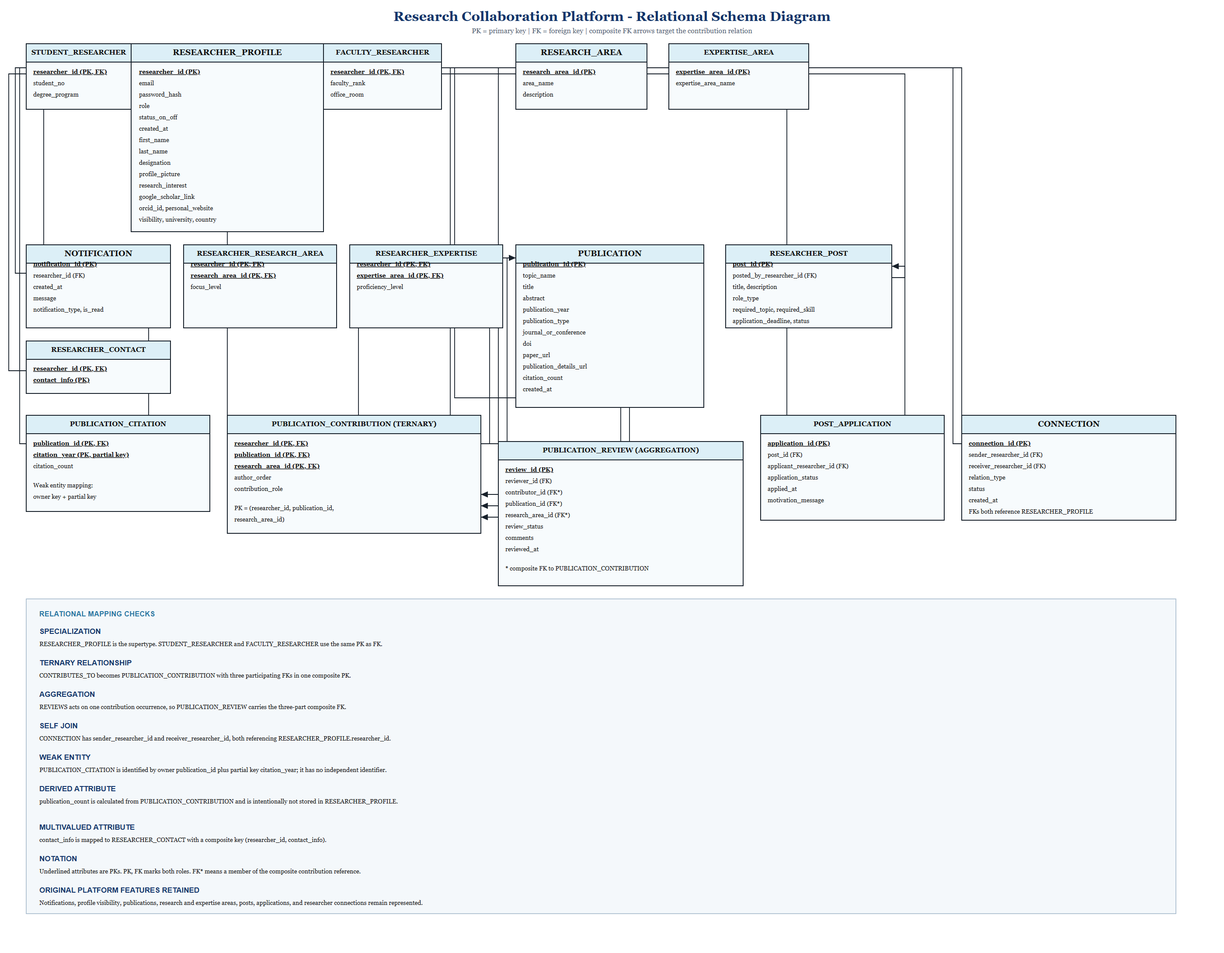
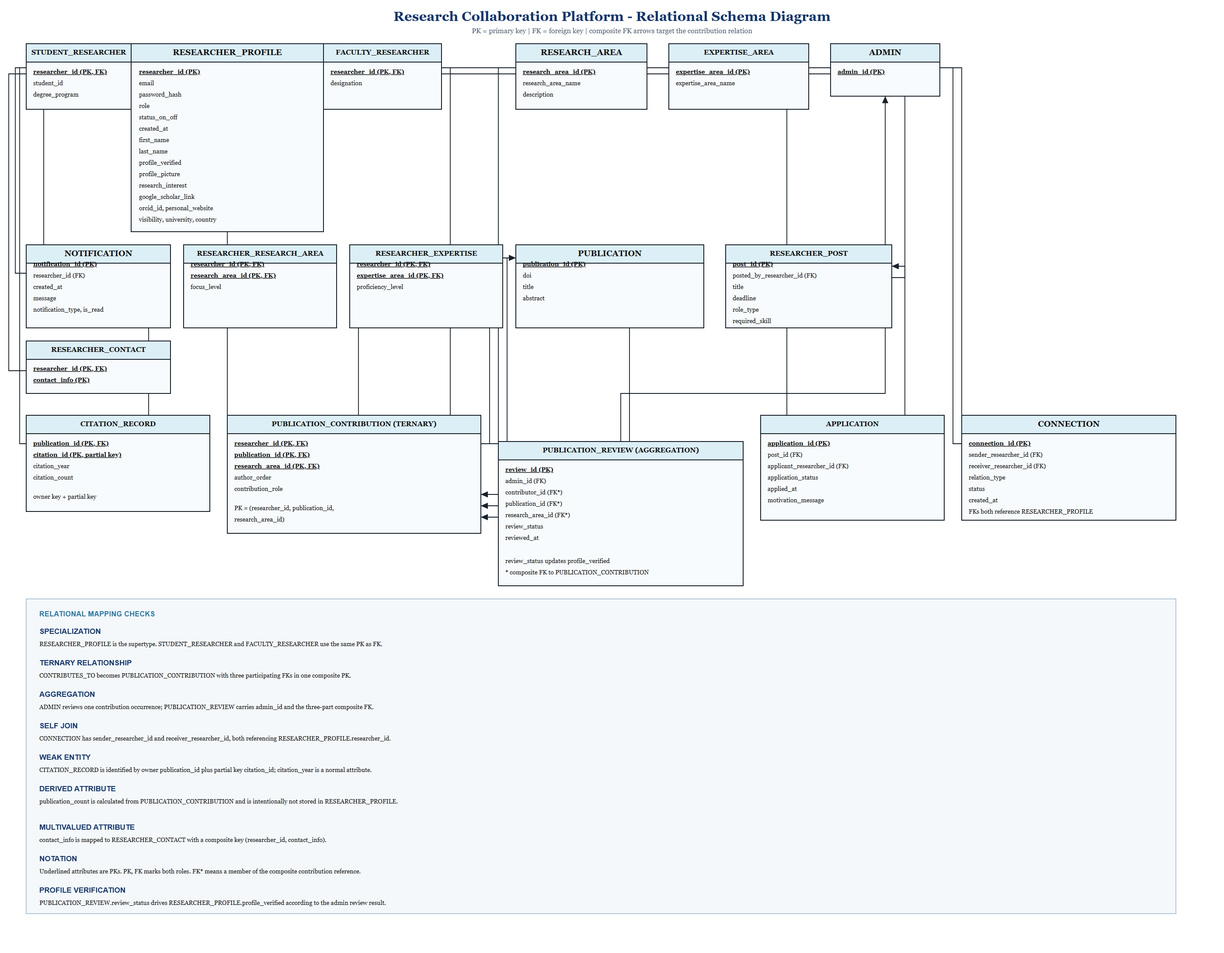
Apply research ER model corrections

diff --git a/public/project-schema-er/index.html b/public/project-schema-er/index.html
@@ -116,9 +116,9 @@
           <ellipse class="attribute" cx="770" cy="910" rx="65" ry="28"/><text class="label small" x="770" y="910">created_at</text>
           <ellipse class="attribute" cx="800" cy="980" rx="86" ry="30"/><ellipse class="attribute" cx="800" cy="980" rx="77" ry="23"/><text class="label small" x="800" y="980">contact_info</text>
           <ellipse class="attribute" cx="1170" cy="585" rx="88" ry="29"/><text class="label small" x="1170" y="585">full_name</text>
-          <ellipse class="attribute" cx="1030" cy="585" rx="72" ry="25"/><text class="label tiny" x="1030" y="585">first_name</text>
-          <ellipse class="attribute" cx="1310" cy="585" rx="70" ry="25"/><text class="label tiny" x="1310" y="585">last_name</text>
-          <ellipse class="attribute" cx="1535" cy="575" rx="100" ry="28"/><text class="label small" x="1535" y="575">designation</text>
+          <ellipse class="attribute" cx="1000" cy="585" rx="72" ry="25"/><text class="label tiny" x="1000" y="585">first_name</text>
+          <ellipse class="attribute" cx="1340" cy="585" rx="70" ry="25"/><text class="label tiny" x="1340" y="585">last_name</text>
+          <ellipse class="attribute" cx="1535" cy="575" rx="105" ry="28"/><text class="label small" x="1535" y="575">profile_verified</text>
           <ellipse class="attribute" cx="1535" cy="635" rx="92" ry="28"/><text class="label small" x="1535" y="635">profile_picture</text>
           <ellipse class="attribute" cx="1535" cy="695" rx="105" ry="28"/><text class="label small" x="1535" y="695">research_interest</text>
           <ellipse class="attribute" cx="1535" cy="755" rx="115" ry="28"/><text class="label small" x="1535" y="755">google_scholar_link</text>
@@ -134,18 +134,23 @@
           <!-- Attribute connectors to profile, kept behind labels -->
           <path class="connector thin" d="M855 585 H1000 M840 650 H1000 M875 715 H1000 M822 780 H1000 M853 845 H1000 M835 910 L1000 830"/>
           <path class="connector thin" d="M886 980 H1000 V850"/>
-          <path class="connector thin" d="M1170 614 V670 M1065 599 L1100 670 M1350 599 L1240 670"/>
+          <path class="connector thin" d="M1170 614 V670 M1072 585 H1082 M1258 585 H1270"/>
           <path class="connector thin" d="M1435 575 L1340 680 M1443 635 L1340 700 M1430 695 L1340 720 M1420 755 L1340 742 M1465 815 L1340 765 M1440 875 L1340 790 M1435 935 L1340 815 M1440 995 L1340 840 M1479 1055 L1340 840 M1440 1115 L1340 840"/>
           <path class="connector thin" d="M1170 850 V910"/>
 
           <!-- Total disjoint specialization -->
           <path class="connector" d="M1160 670 V470 M1180 670 V470"/>
-          <polygon points="1170,470 1105,390 1235,390" fill="#e7e3f5" stroke="#17202a" stroke-width="2.4"/>
+          <polygon points="1170,390 1105,470 1235,470" fill="#e7e3f5" stroke="#17202a" stroke-width="2.4"/>
           <text class="label bold" x="1170" y="430">ISA</text>
           <text class="label tiny bold" x="1170" y="458" style="fill:#2877a4">SPECIALIZATION</text>
           <path class="connector" d="M1170 390 V330 H890 M1170 330 H1470 M890 330 V275 M1470 330 V275"/>
-          <rect class="entity-subtype" x="720" y="180" width="340" height="95"/><text class="label bold small" x="890" y="212">STUDENT_RESEARCHER</text><text class="label tiny" x="890" y="242">student_no, degree_program</text>
-          <rect class="entity-subtype" x="1300" y="180" width="340" height="95"/><text class="label bold small" x="1470" y="212">FACULTY_RESEARCHER</text><text class="label tiny" x="1470" y="242">faculty_rank, office_room</text>
+          <rect class="entity-subtype" x="720" y="180" width="340" height="95"/><text class="label bold small" x="890" y="227">STUDENT_RESEARCHER</text>
+          <ellipse class="attribute" cx="775" cy="105" rx="82" ry="27"/><text class="label small key" x="775" y="105">student_id</text>
+          <ellipse class="attribute" cx="1005" cy="105" rx="105" ry="27"/><text class="label small" x="1005" y="105">degree_program</text>
+          <path class="connector thin" d="M795 132 L840 180 M990 132 L940 180"/>
+          <rect class="entity-subtype" x="1300" y="180" width="340" height="95"/><text class="label bold small" x="1470" y="227">FACULTY_RESEARCHER</text>
+          <ellipse class="attribute" cx="1470" cy="105" rx="100" ry="27"/><text class="label small" x="1470" y="105">designation</text>
+          <path class="connector thin" d="M1470 132 V180"/>
           <text class="label tiny bold" x="1170" y="350" style="fill:#2877a4">total, disjoint (d)</text>
 
           <!-- Notification -->
@@ -170,13 +175,17 @@
           <text class="label bold small" x="2050" y="320">N</text><text class="label bold small" x="1385" y="650">1</text>
 
           <!-- Ternary contribution inside aggregation -->
-          <rect class="entity" x="670" y="1010" width="260" height="90"/><text class="label bold" x="800" y="1045">PUBLICATION</text><text class="label tiny" x="800" y="1073">title, abstract, DOI</text>
+          <rect class="entity" x="670" y="1010" width="260" height="90"/><text class="label bold" x="800" y="1055">PUBLICATION</text>
           <ellipse class="attribute" cx="600" cy="1145" rx="92" ry="27"/><text class="label small key" x="600" y="1145">publication_id</text>
-          <ellipse class="attribute" cx="875" cy="1170" rx="76" ry="27"/><text class="label small" x="875" y="1170">citation_count</text>
-          <path class="connector thin" d="M670 1050 L650 1130 M885 1100 L875 1143"/>
-          <rect class="entity" x="1440" y="1010" width="300" height="90"/><text class="label bold" x="1590" y="1045">RESEARCH_AREA</text><text class="label tiny" x="1590" y="1073">area_name, description</text>
+          <ellipse class="attribute" cx="720" cy="1185" rx="45" ry="27"/><text class="label small" x="720" y="1185">doi</text>
+          <ellipse class="attribute" cx="825" cy="1185" rx="52" ry="27"/><text class="label small" x="825" y="1185">title</text>
+          <ellipse class="attribute" cx="940" cy="1160" rx="70" ry="27"/><text class="label small" x="940" y="1160">abstract</text>
+          <path class="connector thin" d="M670 1050 L650 1130 M720 1158 V1100 M825 1158 V1100 M920 1138 L880 1100"/>
+          <rect class="entity" x="1440" y="1010" width="300" height="90"/><text class="label bold" x="1590" y="1055">RESEARCH_AREA</text>
           <ellipse class="attribute" cx="1450" cy="1165" rx="105" ry="27"/><text class="label small key" x="1450" y="1165">research_area_id</text>
-          <path class="connector thin" d="M1450 1100 V1138"/>
+          <ellipse class="attribute" cx="1620" cy="1165" rx="105" ry="27"/><text class="label small" x="1620" y="1165">research_area_name</text>
+          <ellipse class="attribute" cx="1745" cy="1125" rx="78" ry="27"/><text class="label small" x="1745" y="1125">description</text>
+          <path class="connector thin" d="M1450 1100 V1138 M1620 1138 V1100 M1705 1110 L1680 1090"/>
           <polygon class="relationship" points="1210,1055 1300,995 1390,1055 1300,1115"/><text class="label bold small" x="1300" y="1040">CONTRIBUTES_TO</text><text class="label tiny" x="1300" y="1070">TERNARY</text>
           <path class="connector" d="M930 1055 H1210 M1340 1015 L1270 850 M1390 1055 H1440"/>
           <text class="label bold small" x="1080" y="1035">N</text><text class="label bold small" x="1405" y="1035">N</text><text class="label bold small" x="1270" y="910">N</text>
@@ -186,41 +195,49 @@
           <text class="label tiny bold" x="1300" y="1260" style="fill:#2877a4">One fact needs all 3 entities together</text>
 
           <!-- Aggregation participant: faculty reviewer reviews the contribution occurrence -->
-          <rect class="entity-subtype" x="2100" y="690" width="350" height="95"/><text class="label bold small" x="2275" y="722">FACULTY_RESEARCHER</text><text class="label tiny" x="2275" y="753">role: reviewer</text>
+          <rect class="entity-subtype" x="2100" y="690" width="350" height="95"/><text class="label bold small" x="2275" y="735">ADMIN</text>
+          <ellipse class="attribute" cx="2525" cy="735" rx="78" ry="27"/><text class="label small key" x="2525" y="735">admin_id</text>
+          <path class="connector thin" d="M2448 735 H2450"/>
           <polygon class="relationship" points="1920,805 2000,755 2080,805 2000,855"/><text class="label bold small" x="2000" y="805">REVIEWS</text>
           <path class="connector" d="M1880 805 H1920 M2080 805 H2100"/>
           <text class="label bold small" x="1900" y="780">1</text><text class="label bold small" x="2095" y="780">N</text>
           <ellipse class="attribute" cx="2010" cy="920" rx="77" ry="27"/><text class="label small" x="2010" y="920">review_status</text>
           <ellipse class="attribute" cx="2180" cy="975" rx="58" ry="27"/><text class="label small" x="2180" y="975">reviewed_at</text>
           <path class="connector thin" d="M1980 850 L2000 893 M2040 850 L2160 950"/>
+          <text class="label tiny" x="1885" y="960" style="fill:#2877a4">review_status sets profile_verified</text>
           <text class="label tiny bold" x="2000" y="700" style="fill:#2877a4">AGGREGATE participates in REVIEWS</text>
 
           <!-- Weak citation history entity -->
-          <polygon class="relationship" points="350,1290 465,1230 580,1290 465,1350"/><polygon class="double" points="360,1290 465,1238 570,1290 465,1342"/><text class="label bold tiny" x="465" y="1283">HAS_CITATION</text><text class="label tiny" x="465" y="1308">SNAPSHOT</text>
+          <polygon class="relationship" points="350,1290 465,1230 580,1290 465,1350"/><polygon class="double" points="360,1290 465,1238 570,1290 465,1342"/><text class="label bold tiny" x="465" y="1290">HAS_CITATION</text>
           <rect class="entity" x="140" y="1400" width="350" height="100"/><rect class="double" x="150" y="1410" width="330" height="80"/><text class="label bold small" x="315" y="1432">CITATION_RECORD</text><text class="label tiny" x="315" y="1465">WEAK ENTITY</text>
-          <ellipse class="attribute partial-key" cx="150" cy="1585" rx="78" ry="27"/><text class="label small partial-key" x="150" y="1585">citation_year</text>
-          <ellipse class="attribute" cx="390" cy="1585" rx="78" ry="27"/><text class="label small" x="390" y="1585">citation_count</text>
-          <path class="connector thin" d="M350 1290 H220 V1400 M315 1500 V1558 M390 1500 V1558"/>
+          <ellipse class="attribute partial-key" cx="110" cy="1585" rx="68" ry="27"/><text class="label small partial-key" x="110" y="1585">citation_id</text>
+          <ellipse class="attribute" cx="315" cy="1605" rx="78" ry="27"/><text class="label small" x="315" y="1605">citation_year</text>
+          <ellipse class="attribute" cx="490" cy="1585" rx="78" ry="27"/><text class="label small" x="490" y="1585">citation_count</text>
+          <path class="connector thin" d="M350 1290 H220 V1400 M250 1500 L130 1560 M315 1500 V1578 M390 1500 L470 1560"/>
           <path class="connector" d="M465 1230 V1100 H800"/>
           <text class="label bold small" x="485" y="1175">1</text><text class="label bold small" x="300" y="1370">N</text>
           <text class="label tiny bold" x="320" y="1645" style="fill:#2877a4">IDENTIFYING relationship + partial key</text>
 
           <!-- Research post and application -->
-          <rect class="entity" x="2150" y="1080" width="360" height="100"/><text class="label bold" x="2330" y="1115">RESEARCHER_POST</text><text class="label tiny" x="2330" y="1150">title, role_type, deadline</text>
+          <rect class="entity" x="2150" y="1080" width="360" height="100"/><text class="label bold" x="2330" y="1130">RESEARCHER_POST</text>
           <ellipse class="attribute" cx="2150" cy="1260" rx="70" ry="27"/><text class="label small key" x="2150" y="1260">post_id</text>
           <ellipse class="attribute" cx="2390" cy="1260" rx="76" ry="27"/><text class="label small" x="2390" y="1260">required_skill</text>
-          <path class="connector thin" d="M2150 1180 V1233 M2390 1180 V1233"/>
+          <ellipse class="attribute" cx="2175" cy="1030" rx="55" ry="27"/><text class="label small" x="2175" y="1030">title</text>
+          <ellipse class="attribute" cx="2330" cy="1030" rx="65" ry="27"/><text class="label small" x="2330" y="1030">deadline</text>
+          <ellipse class="attribute" cx="2490" cy="1030" rx="72" ry="27"/><text class="label small" x="2490" y="1030">role_type</text>
+          <path class="connector thin" d="M2150 1180 V1233 M2390 1180 V1233 M2175 1057 L2220 1080 M2330 1057 V1080 M2490 1057 L2440 1080"/>
           <polygon class="relationship" points="1880,1190 1960,1140 2040,1190 1960,1240"/><text class="label bold small" x="1960" y="1190">CREATES</text>
           <path class="connector" d="M1340 840 H1780 V1190 H1880 M2040 1190 H2150"/>
           <text class="label bold small" x="1780" y="1168">1</text><text class="label bold small" x="2080" y="1168">N</text>
-          <polygon class="relationship" points="1960,1370 2050,1315 2140,1370 2050,1425"/><text class="label bold small" x="2050" y="1365">APPLIES_FOR</text><text class="label tiny" x="2050" y="1390">application</text>
-          <path class="connector" d="M2330 1180 V1290 H2140 M1960 1370 V1510 H960 V805 H1000"/>
-          <text class="label bold small" x="2260" y="1268">1</text><text class="label bold small" x="1850" y="1490">N</text>
-          <ellipse class="attribute" cx="2230" cy="1480" rx="86" ry="27"/><text class="label small key" x="2230" y="1480">application_id</text>
-          <ellipse class="attribute" cx="2450" cy="1535" rx="96" ry="27"/><text class="label small" x="2450" y="1535">application_status</text>
-          <ellipse class="attribute" cx="2220" cy="1590" rx="68" ry="27"/><text class="label small" x="2220" y="1590">applied_at</text>
-          <ellipse class="attribute" cx="2450" cy="1645" rx="110" ry="27"/><text class="label small" x="2450" y="1645">motivation_message</text>
-          <path class="connector thin" d="M2140 1425 L2215 1458 M2140 1400 L2390 1510 M2140 1390 L2180 1565 M2140 1380 L2360 1620"/>
+          <polygon class="relationship" points="1910,1370 2000,1315 2090,1370 2000,1425"/><text class="label bold small" x="2000" y="1370">APPLIES_FOR</text>
+          <rect class="entity" x="2220" y="1340" width="320" height="95"/><text class="label bold" x="2380" y="1388">APPLICATION</text>
+          <path class="connector" d="2090 1370 H2220 M1910 1370 H960 V805 H1000"/>
+          <text class="label bold small" x="2135" y="1348">1</text><text class="label bold small" x="1885" y="1348">N</text>
+          <ellipse class="attribute" cx="2225" cy="1500" rx="86" ry="27"/><text class="label small key" x="2225" y="1500">application_id</text>
+          <ellipse class="attribute" cx="2450" cy="1515" rx="96" ry="27"/><text class="label small" x="2450" y="1515">application_status</text>
+          <ellipse class="attribute" cx="2225" cy="1600" rx="68" ry="27"/><text class="label small" x="2225" y="1600">applied_at</text>
+          <ellipse class="attribute" cx="2450" cy="1625" rx="110" ry="27"/><text class="label small" x="2450" y="1625">motivation_message</text>
+          <path class="connector thin" d="M2260 1435 L2225 1473 M2420 1435 L2450 1488 M2300 1435 L2225 1573 M2480 1435 L2450 1598"/>
 
           <!-- Recursive self join: one researcher appears in two roles -->
           <polygon class="relationship" points="1120,1530 1225,1465 1330,1530 1225,1595"/><text class="label bold small" x="1225" y="1515">CONNECTS</text><text class="label tiny" x="1225" y="1545">SELF JOIN</text>
@@ -270,7 +287,7 @@
             <path d="M80 1015 H45 V155 H300" data-ref="RESEARCHER_RESEARCH_AREA.researcher_id -> RESEARCHER_PROFILE.researcher_id"/>
             <path d="M560 1015 H520 V155 H300" data-ref="RESEARCHER_EXPERTISE.researcher_id -> RESEARCHER_PROFILE.researcher_id"/>
             <path d="M1080 1015 H1030 V155 H300" data-ref="RESEARCHER_POST.posted_by_researcher_id -> RESEARCHER_PROFILE.researcher_id"/>
-            <path d="M1880 1015 H1800 V155 H300" data-ref="POST_APPLICATION.applicant_researcher_id -> RESEARCHER_PROFILE.researcher_id"/>
+            <path d="M1880 1015 H1800 V155 H300" data-ref="APPLICATION.applicant_researcher_id -> RESEARCHER_PROFILE.researcher_id"/>
             <!-- areas and notification -->
             <path d="M300 1015 H340 V590 H390" data-ref="RESEARCHER_RESEARCH_AREA.research_area_id -> RESEARCH_AREA.research_area_id"/>
             <path d="M780 1015 H820 V590 H870" data-ref="RESEARCHER_EXPERTISE.expertise_area_id -> EXPERTISE_AREA.expertise_area_id"/>
@@ -279,15 +296,15 @@
             <path d="M1080 1015 H1120 V590 H1180" data-ref="PUBLICATION_CONTRIBUTION.publication_id -> PUBLICATION.publication_id"/>
             <path d="M1080 1015 H1140 V155 H300" data-ref="PUBLICATION_CONTRIBUTION.researcher_id -> RESEARCHER_PROFILE.researcher_id"/>
             <path d="M1080 1015 H1160 V590 H870" data-ref="PUBLICATION_CONTRIBUTION.research_area_id -> RESEARCH_AREA.research_area_id"/>
-            <path d="M1480 1015 H1440 V590 H1180" data-ref="PUBLICATION_CITATION.publication_id -> PUBLICATION.publication_id"/>
+            <path d="M1480 1015 H1440 V590 H1180" data-ref="CITATION_RECORD.publication_id -> PUBLICATION.publication_id"/>
             <!-- aggregation review -->
-            <path d="M1420 1010 V910 H1040 V155 H740" data-ref="PUBLICATION_REVIEW.reviewer_id -> RESEARCHER_PROFILE.researcher_id"/>
+            <path d="M1420 1010 V900 H2025 V220" data-ref="PUBLICATION_REVIEW.admin_id -> ADMIN.admin_id"/>
             <path d="M1140 1131 H1100" data-ref="PUBLICATION_REVIEW.contributor_id -> PUBLICATION_CONTRIBUTION.researcher_id"/>
             <path d="M1140 1157 H1100" data-ref="PUBLICATION_REVIEW.publication_id -> PUBLICATION_CONTRIBUTION.publication_id"/>
             <path d="M1140 1183 H1100" data-ref="PUBLICATION_REVIEW.research_area_id -> PUBLICATION_CONTRIBUTION.research_area_id"/>
             <!-- posts and applications -->
             <path d="M2040 635 H2070 V169 H740" data-ref="RESEARCHER_POST.posted_by_researcher_id -> RESEARCHER_PROFILE.researcher_id"/>
-            <path d="M1880 1045 H2070 V609 H2040" data-ref="POST_APPLICATION.post_id -> RESEARCHER_POST.post_id"/>
+            <path d="M1880 1045 H2070 V609 H2040" data-ref="APPLICATION.post_id -> RESEARCHER_POST.post_id"/>
             <!-- recursive self join -->
             <path d="M2240 1015 H2200 V155 H300" data-ref="CONNECTION.sender_researcher_id -> RESEARCHER_PROFILE.researcher_id"/>
             <path d="M2240 1015 H2180 V155 H300" data-ref="CONNECTION.receiver_researcher_id -> RESEARCHER_PROFILE.researcher_id"/>
@@ -298,19 +315,22 @@
             <rect class="table" x="300" y="100" width="440" height="430"/><rect class="table-head" x="300" y="100" width="440" height="42"/>
             <text class="label bold" x="520" y="121">RESEARCHER_PROFILE</text>
             <text class="schema-text schema-key" x="318" y="169">researcher_id (PK)</text>
-            <text class="schema-text" x="318" y="195">email</text><text class="schema-text" x="318" y="221">password_hash</text><text class="schema-text" x="318" y="247">role</text><text class="schema-text" x="318" y="273">status_on_off</text><text class="schema-text" x="318" y="299">created_at</text><text class="schema-text" x="318" y="325">first_name</text><text class="schema-text" x="318" y="351">last_name</text><text class="schema-text" x="318" y="377">designation</text><text class="schema-text" x="318" y="403">profile_picture</text><text class="schema-text" x="318" y="429">research_interest</text><text class="schema-text" x="318" y="455">google_scholar_link</text><text class="schema-text" x="318" y="481">orcid_id, personal_website</text><text class="schema-text" x="318" y="507">visibility, university, country</text>
+            <text class="schema-text" x="318" y="195">email</text><text class="schema-text" x="318" y="221">password_hash</text><text class="schema-text" x="318" y="247">role</text><text class="schema-text" x="318" y="273">status_on_off</text><text class="schema-text" x="318" y="299">created_at</text><text class="schema-text" x="318" y="325">first_name</text><text class="schema-text" x="318" y="351">last_name</text><text class="schema-text" x="318" y="377">profile_verified</text><text class="schema-text" x="318" y="403">profile_picture</text><text class="schema-text" x="318" y="429">research_interest</text><text class="schema-text" x="318" y="455">google_scholar_link</text><text class="schema-text" x="318" y="481">orcid_id, personal_website</text><text class="schema-text" x="318" y="507">visibility, university, country</text>
           </g>
           <g>
-            <rect class="table" x="60" y="100" width="240" height="150"/><rect class="table-head" x="60" y="100" width="240" height="42"/><text class="label bold small" x="180" y="121">STUDENT_RESEARCHER</text><text class="schema-text schema-key" x="76" y="169">researcher_id (PK, FK)</text><text class="schema-text" x="76" y="195">student_no</text><text class="schema-text" x="76" y="221">degree_program</text>
+            <rect class="table" x="60" y="100" width="240" height="150"/><rect class="table-head" x="60" y="100" width="240" height="42"/><text class="label bold small" x="180" y="121">STUDENT_RESEARCHER</text><text class="schema-text schema-key" x="76" y="169">researcher_id (PK, FK)</text><text class="schema-text" x="76" y="195">student_id</text><text class="schema-text" x="76" y="221">degree_program</text>
           </g>
           <g>
-            <rect class="table" x="740" y="100" width="270" height="150"/><rect class="table-head" x="740" y="100" width="270" height="42"/><text class="label bold small" x="875" y="121">FACULTY_RESEARCHER</text><text class="schema-text schema-key" x="756" y="169">researcher_id (PK, FK)</text><text class="schema-text" x="756" y="195">faculty_rank</text><text class="schema-text" x="756" y="221">office_room</text>
+            <rect class="table" x="740" y="100" width="270" height="150"/><rect class="table-head" x="740" y="100" width="270" height="42"/><text class="label bold small" x="875" y="121">FACULTY_RESEARCHER</text><text class="schema-text schema-key" x="756" y="169">researcher_id (PK, FK)</text><text class="schema-text" x="756" y="195">designation</text>
           </g>
           <g>
-            <rect class="table" x="1180" y="100" width="300" height="150"/><rect class="table-head" x="1180" y="100" width="300" height="42"/><text class="label bold" x="1330" y="121">RESEARCH_AREA</text><text class="schema-text schema-key" x="1196" y="169">research_area_id (PK)</text><text class="schema-text" x="1196" y="195">area_name</text><text class="schema-text" x="1196" y="221">description</text>
+            <rect class="table" x="1180" y="100" width="300" height="150"/><rect class="table-head" x="1180" y="100" width="300" height="42"/><text class="label bold" x="1330" y="121">RESEARCH_AREA</text><text class="schema-text schema-key" x="1196" y="169">research_area_id (PK)</text><text class="schema-text" x="1196" y="195">research_area_name</text><text class="schema-text" x="1196" y="221">description</text>
           </g>
           <g>
             <rect class="table" x="1530" y="100" width="320" height="150"/><rect class="table-head" x="1530" y="100" width="320" height="42"/><text class="label bold small" x="1690" y="121">EXPERTISE_AREA</text><text class="schema-text schema-key" x="1546" y="169">expertise_area_id (PK)</text><text class="schema-text" x="1546" y="195">expertise_area_name</text>
+          </g>
+          <g>
+            <rect class="table" x="1900" y="100" width="250" height="120"/><rect class="table-head" x="1900" y="100" width="250" height="42"/><text class="label bold" x="2025" y="121">ADMIN</text><text class="schema-text schema-key" x="1916" y="169">admin_id (PK)</text>
           </g>
 
           <g>
@@ -326,23 +346,23 @@
             <rect class="table" x="800" y="560" width="350" height="190"/><rect class="table-head" x="800" y="560" width="350" height="42"/><text class="label bold small" x="975" y="581">RESEARCHER_EXPERTISE</text><text class="schema-text schema-key" x="816" y="609">researcher_id (PK, FK)</text><text class="schema-text schema-key" x="816" y="635">expertise_area_id (PK, FK)</text><text class="schema-text" x="816" y="661">proficiency_level</text>
           </g>
           <g>
-            <rect class="table" x="1180" y="560" width="430" height="372"/><rect class="table-head" x="1180" y="560" width="430" height="42"/><text class="label bold" x="1395" y="581">PUBLICATION</text><text class="schema-text schema-key" x="1196" y="609">publication_id (PK)</text><text class="schema-text" x="1196" y="635">topic_name</text><text class="schema-text" x="1196" y="661">title</text><text class="schema-text" x="1196" y="687">abstract</text><text class="schema-text" x="1196" y="713">publication_year</text><text class="schema-text" x="1196" y="739">publication_type</text><text class="schema-text" x="1196" y="765">journal_or_conference</text><text class="schema-text" x="1196" y="791">doi</text><text class="schema-text" x="1196" y="817">paper_url</text><text class="schema-text" x="1196" y="843">publication_details_url</text><text class="schema-text" x="1196" y="869">citation_count</text><text class="schema-text" x="1196" y="895">created_at</text>
+            <rect class="table" x="1180" y="560" width="430" height="190"/><rect class="table-head" x="1180" y="560" width="430" height="42"/><text class="label bold" x="1395" y="581">PUBLICATION</text><text class="schema-text schema-key" x="1196" y="609">publication_id (PK)</text><text class="schema-text" x="1196" y="635">doi</text><text class="schema-text" x="1196" y="661">title</text><text class="schema-text" x="1196" y="687">abstract</text>
           </g>
           <g>
-            <rect class="table" x="1660" y="560" width="380" height="190"/><rect class="table-head" x="1660" y="560" width="380" height="42"/><text class="label bold small" x="1850" y="581">RESEARCHER_POST</text><text class="schema-text schema-key" x="1676" y="609">post_id (PK)</text><text class="schema-text" x="1676" y="635">posted_by_researcher_id (FK)</text><text class="schema-text" x="1676" y="661">title, description</text><text class="schema-text" x="1676" y="687">role_type</text><text class="schema-text" x="1676" y="713">required_topic, required_skill</text><text class="schema-text" x="1676" y="739">application_deadline, status</text>
+            <rect class="table" x="1660" y="560" width="380" height="190"/><rect class="table-head" x="1660" y="560" width="380" height="42"/><text class="label bold small" x="1850" y="581">RESEARCHER_POST</text><text class="schema-text schema-key" x="1676" y="609">post_id (PK)</text><text class="schema-text" x="1676" y="635">posted_by_researcher_id (FK)</text><text class="schema-text" x="1676" y="661">title</text><text class="schema-text" x="1676" y="687">deadline</text><text class="schema-text" x="1676" y="713">role_type</text><text class="schema-text" x="1676" y="739">required_skill</text>
           </g>
 
           <g>
-            <rect class="table" x="60" y="950" width="420" height="220"/><rect class="table-head" x="60" y="950" width="420" height="42"/><text class="label bold small" x="270" y="971">PUBLICATION_CITATION</text><text class="schema-text schema-key" x="76" y="1019">publication_id (PK, FK)</text><text class="schema-text schema-key" x="76" y="1045">citation_year (PK, partial key)</text><text class="schema-text" x="76" y="1071">citation_count</text><text class="schema-text" x="76" y="1115">Weak entity mapping:</text><text class="schema-text" x="76" y="1141">owner key + partial key</text>
+            <rect class="table" x="60" y="950" width="420" height="220"/><rect class="table-head" x="60" y="950" width="420" height="42"/><text class="label bold small" x="270" y="971">CITATION_RECORD</text><text class="schema-text schema-key" x="76" y="1019">publication_id (PK, FK)</text><text class="schema-text schema-key" x="76" y="1045">citation_id (PK, partial key)</text><text class="schema-text" x="76" y="1071">citation_year</text><text class="schema-text" x="76" y="1097">citation_count</text><text class="schema-text" x="76" y="1141">owner key + partial key</text>
           </g>
           <g>
             <rect class="table" x="520" y="950" width="580" height="270"/><rect class="table-head" x="520" y="950" width="580" height="42"/><text class="label bold small" x="810" y="971">PUBLICATION_CONTRIBUTION (TERNARY)</text><text class="schema-text schema-key" x="536" y="1019">researcher_id (PK, FK)</text><text class="schema-text schema-key" x="536" y="1045">publication_id (PK, FK)</text><text class="schema-text schema-key" x="536" y="1071">research_area_id (PK, FK)</text><text class="schema-text" x="536" y="1097">author_order</text><text class="schema-text" x="536" y="1123">contribution_role</text><text class="schema-text" x="536" y="1167">PK = (researcher_id, publication_id,</text><text class="schema-text" x="536" y="1193">research_area_id)</text>
           </g>
           <g>
-            <rect class="table" x="1140" y="1010" width="560" height="330"/><rect class="table-head" x="1140" y="1010" width="560" height="42"/><text class="label bold small" x="1420" y="1031">PUBLICATION_REVIEW (AGGREGATION)</text><text class="schema-text schema-key" x="1156" y="1079">review_id (PK)</text><text class="schema-text" x="1156" y="1105">reviewer_id (FK)</text><text class="schema-text" x="1156" y="1131">contributor_id (FK*)</text><text class="schema-text" x="1156" y="1157">publication_id (FK*)</text><text class="schema-text" x="1156" y="1183">research_area_id (FK*)</text><text class="schema-text" x="1156" y="1209">review_status</text><text class="schema-text" x="1156" y="1235">comments</text><text class="schema-text" x="1156" y="1261">reviewed_at</text><text class="schema-text" x="1156" y="1305">* composite FK to PUBLICATION_CONTRIBUTION</text>
+            <rect class="table" x="1140" y="1010" width="560" height="330"/><rect class="table-head" x="1140" y="1010" width="560" height="42"/><text class="label bold small" x="1420" y="1031">PUBLICATION_REVIEW (AGGREGATION)</text><text class="schema-text schema-key" x="1156" y="1079">review_id (PK)</text><text class="schema-text" x="1156" y="1105">admin_id (FK)</text><text class="schema-text" x="1156" y="1131">contributor_id (FK*)</text><text class="schema-text" x="1156" y="1157">publication_id (FK*)</text><text class="schema-text" x="1156" y="1183">research_area_id (FK*)</text><text class="schema-text" x="1156" y="1209">review_status</text><text class="schema-text" x="1156" y="1235">reviewed_at</text><text class="schema-text" x="1156" y="1288">review_status updates profile_verified</text><text class="schema-text" x="1156" y="1314">* composite FK to PUBLICATION_CONTRIBUTION</text>
           </g>
           <g>
-            <rect class="table" x="1740" y="950" width="420" height="240"/><rect class="table-head" x="1740" y="950" width="420" height="42"/><text class="label bold small" x="1950" y="971">POST_APPLICATION</text><text class="schema-text schema-key" x="1756" y="1019">application_id (PK)</text><text class="schema-text" x="1756" y="1045">post_id (FK)</text><text class="schema-text" x="1756" y="1071">applicant_researcher_id (FK)</text><text class="schema-text" x="1756" y="1097">application_status</text><text class="schema-text" x="1756" y="1123">applied_at</text><text class="schema-text" x="1756" y="1149">motivation_message</text>
+            <rect class="table" x="1740" y="950" width="420" height="240"/><rect class="table-head" x="1740" y="950" width="420" height="42"/><text class="label bold small" x="1950" y="971">APPLICATION</text><text class="schema-text schema-key" x="1756" y="1019">application_id (PK)</text><text class="schema-text" x="1756" y="1045">post_id (FK)</text><text class="schema-text" x="1756" y="1071">applicant_researcher_id (FK)</text><text class="schema-text" x="1756" y="1097">application_status</text><text class="schema-text" x="1756" y="1123">applied_at</text><text class="schema-text" x="1756" y="1149">motivation_message</text>
           </g>
           <g>
             <rect class="table" x="2200" y="950" width="490" height="240"/><rect class="table-head" x="2200" y="950" width="490" height="42"/><text class="label bold" x="2445" y="971">CONNECTION</text><text class="schema-text schema-key" x="2216" y="1019">connection_id (PK)</text><text class="schema-text" x="2216" y="1045">sender_researcher_id (FK)</text><text class="schema-text" x="2216" y="1071">receiver_researcher_id (FK)</text><text class="schema-text" x="2216" y="1097">relation_type</text><text class="schema-text" x="2216" y="1123">status</text><text class="schema-text" x="2216" y="1149">created_at</text><text class="schema-text" x="2216" y="1175">FKs both reference RESEARCHER_PROFILE</text>
@@ -352,13 +372,13 @@
           <text x="90" y="1410" class="section-note">RELATIONAL MAPPING CHECKS</text>
           <text x="90" y="1450" class="schema-text" style="font:700 17px Arial;fill:#12346b">SPECIALIZATION</text><text x="90" y="1478" class="schema-text">RESEARCHER_PROFILE is the supertype. STUDENT_RESEARCHER and FACULTY_RESEARCHER use the same PK as FK.</text>
           <text x="90" y="1522" class="schema-text" style="font:700 17px Arial;fill:#12346b">TERNARY RELATIONSHIP</text><text x="90" y="1550" class="schema-text">CONTRIBUTES_TO becomes PUBLICATION_CONTRIBUTION with three participating FKs in one composite PK.</text>
-          <text x="90" y="1594" class="schema-text" style="font:700 17px Arial;fill:#12346b">AGGREGATION</text><text x="90" y="1622" class="schema-text">REVIEWS acts on one contribution occurrence, so PUBLICATION_REVIEW carries the three-part composite FK.</text>
+          <text x="90" y="1594" class="schema-text" style="font:700 17px Arial;fill:#12346b">AGGREGATION</text><text x="90" y="1622" class="schema-text">ADMIN reviews one contribution occurrence; PUBLICATION_REVIEW carries admin_id and the three-part composite FK.</text>
           <text x="90" y="1666" class="schema-text" style="font:700 17px Arial;fill:#12346b">SELF JOIN</text><text x="90" y="1694" class="schema-text">CONNECTION has sender_researcher_id and receiver_researcher_id, both referencing RESEARCHER_PROFILE.researcher_id.</text>
-          <text x="90" y="1738" class="schema-text" style="font:700 17px Arial;fill:#12346b">WEAK ENTITY</text><text x="90" y="1766" class="schema-text">PUBLICATION_CITATION is identified by owner publication_id plus partial key citation_year; it has no independent identifier.</text>
+          <text x="90" y="1738" class="schema-text" style="font:700 17px Arial;fill:#12346b">WEAK ENTITY</text><text x="90" y="1766" class="schema-text">CITATION_RECORD is identified by owner publication_id plus partial key citation_id; citation_year is a normal attribute.</text>
           <text x="90" y="1810" class="schema-text" style="font:700 17px Arial;fill:#12346b">DERIVED ATTRIBUTE</text><text x="90" y="1838" class="schema-text">publication_count is calculated from PUBLICATION_CONTRIBUTION and is intentionally not stored in RESEARCHER_PROFILE.</text>
           <text x="90" y="1898" class="schema-text" style="font:700 17px Arial;fill:#12346b">MULTIVALUED ATTRIBUTE</text><text x="90" y="1926" class="schema-text">contact_info is mapped to RESEARCHER_CONTACT with a composite key (researcher_id, contact_info).</text>
           <text x="90" y="1970" class="schema-text" style="font:700 17px Arial;fill:#12346b">NOTATION</text><text x="90" y="1998" class="schema-text">Underlined attributes are PKs. PK, FK marks both roles. FK* means a member of the composite contribution reference.</text>
-          <text x="90" y="2042" class="schema-text" style="font:700 17px Arial;fill:#12346b">ORIGINAL PLATFORM FEATURES RETAINED</text><text x="90" y="2070" class="schema-text">Notifications, profile visibility, publications, research and expertise areas, posts, applications, and researcher connections remain represented.</text>
+          <text x="90" y="2042" class="schema-text" style="font:700 17px Arial;fill:#12346b">PROFILE VERIFICATION</text><text x="90" y="2070" class="schema-text">PUBLICATION_REVIEW.review_status drives RESEARCHER_PROFILE.profile_verified according to the admin review result.</text>
         </svg>
         <div class="legend">
           <span><b>Underlined row</b> primary key</span>
@@ -369,7 +389,7 @@
           <span><b>Partial key</b> weak-entity citation year</span>
         </div>
       </div></div>
-      <div class="mapping"><b>Important mapping decisions:</b> `publication_count` is derived and therefore absent from the schema; `full_name` is represented by `first_name` and `last_name`; the weak citation record uses `(publication_id, citation_year)`; and the aggregate review references one exact `(researcher_id, publication_id, research_area_id)` contribution occurrence.</div>
+      <div class="mapping"><b>Important mapping decisions:</b> `publication_count` is derived and therefore absent from the schema; `full_name` is represented by `first_name` and `last_name`; the weak citation record uses `(publication_id, citation_id)`; and admin review status drives `profile_verified`.</div>
     </section>
 
     <section id="mapping">
@@ -377,11 +397,11 @@
       <p class="intro">These are the exact places to point to if your teacher asks where each classroom requirement appears.</p>
       <div class="checks">
         <div class="check"><strong>1. SPECIALIZATION</strong>ISA triangle above RESEARCHER_PROFILE, branching to STUDENT_RESEARCHER and FACULTY_RESEARCHER; marked total and disjoint.</div>
-        <div class="check"><strong>2. AGGREGATE</strong>Blue dashed boundary around a contribution occurrence; REVIEWS connects FACULTY_RESEARCHER to that aggregate.</div>
+        <div class="check"><strong>2. AGGREGATE</strong>Blue dashed boundary around a contribution occurrence; REVIEWS connects ADMIN to that aggregate.</div>
         <div class="check"><strong>3. TERNARY</strong>CONTRIBUTES_TO has three edges: RESEARCHER_PROFILE, PUBLICATION, and RESEARCH_AREA.</div>
         <div class="check"><strong>4. SELF JOIN</strong>CONNECTS loops from RESEARCHER_PROFILE back to itself with requester/sender and recipient/receiver roles.</div>
         <div class="check"><strong>5. DERIVED ATTRIBUTE</strong>Dashed oval `publication_count`, calculated from contribution rows and not stored.</div>
-        <div class="check"><strong>6. WEAK ENTITY</strong>Double-border CITATION_RECORD, double-diamond HAS_CITATION_SNAPSHOT, and dashed-underlined partial key `citation_year`.</div>
+        <div class="check"><strong>6. WEAK ENTITY</strong>Double-border CITATION_RECORD, double-diamond HAS_CITATION, and dashed-underlined partial key `citation_id`.</div>
       </div>
     </section>
   </main>
